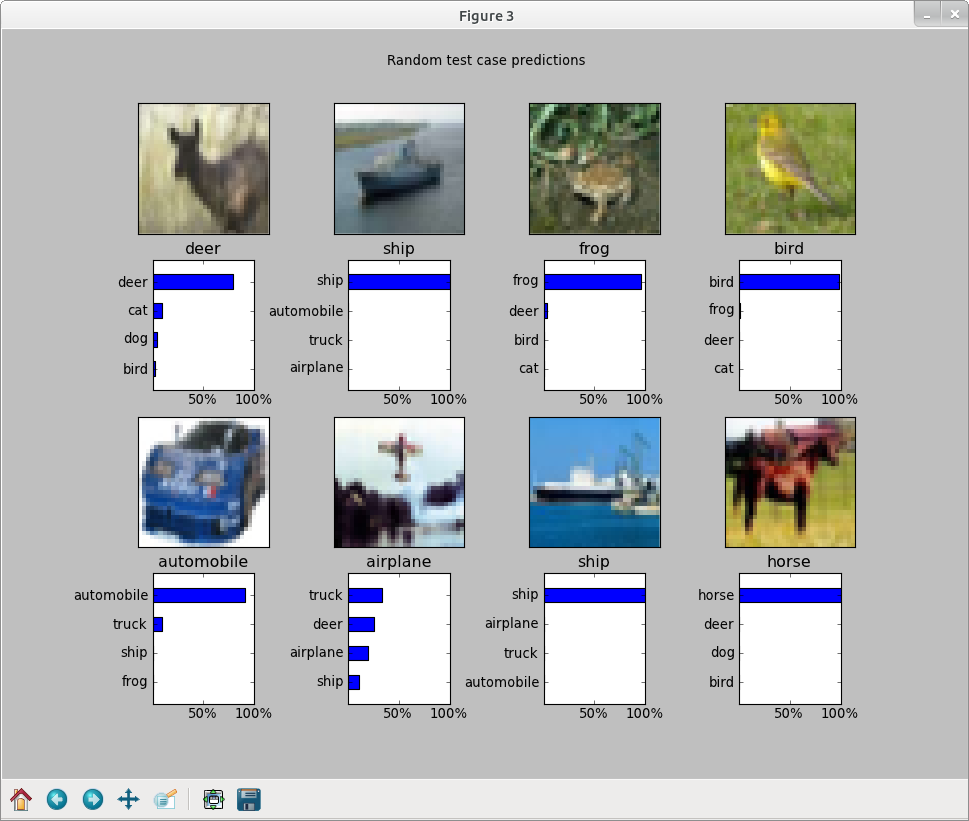
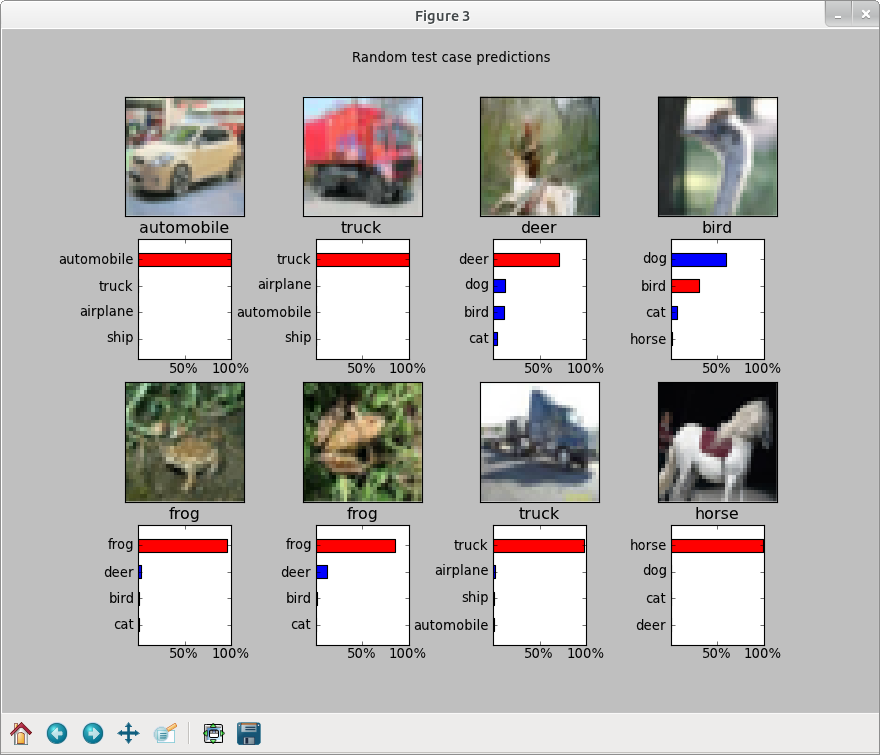
Correct label now in red

diff --git a/trunk/shownet.py b/trunk/shownet.py
@@ -205,7 +205,8 @@ class ShowGPUModel(GPUModel):
                 ylocs = n.array(range(NUM_TOP_CLASSES)) + 0.5
                 height = 0.5
                 width = max(ylocs)
-                pl.barh(ylocs, [l[0]*width for l in img_labels], height=height)
+                pl.barh(ylocs, [l[0]*width for l in img_labels], height=height, \
+                        color=['r' if l[1] == label_names[true_label] else 'b' for l in img_labels])
                 pl.title(label_names[true_label])
                 pl.yticks(ylocs + height/2, [l[1] for l in img_labels])
                 pl.xticks([width/2.0, width], ['50%', '100%'])
